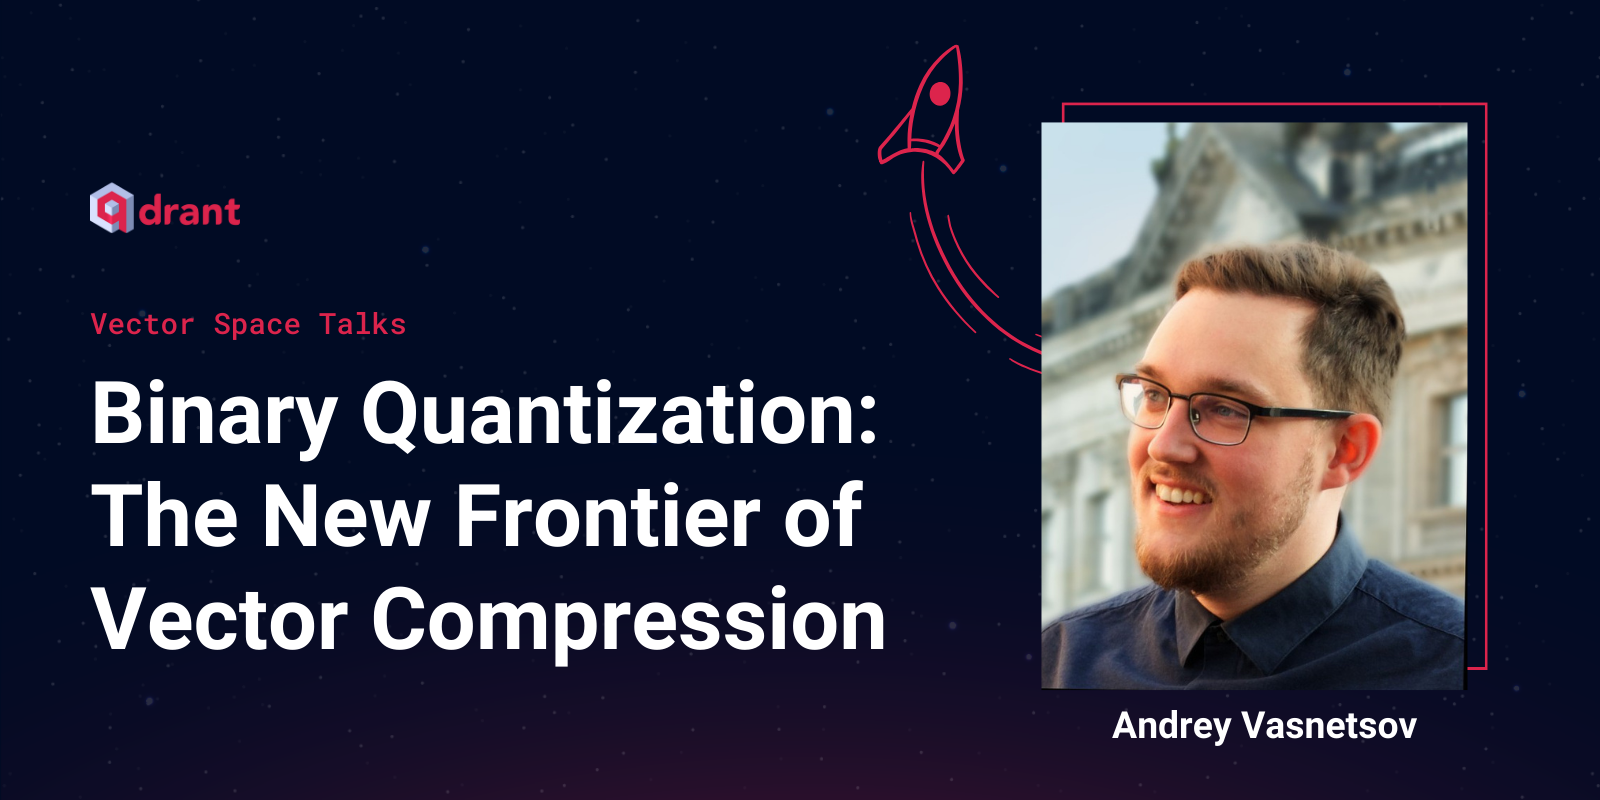
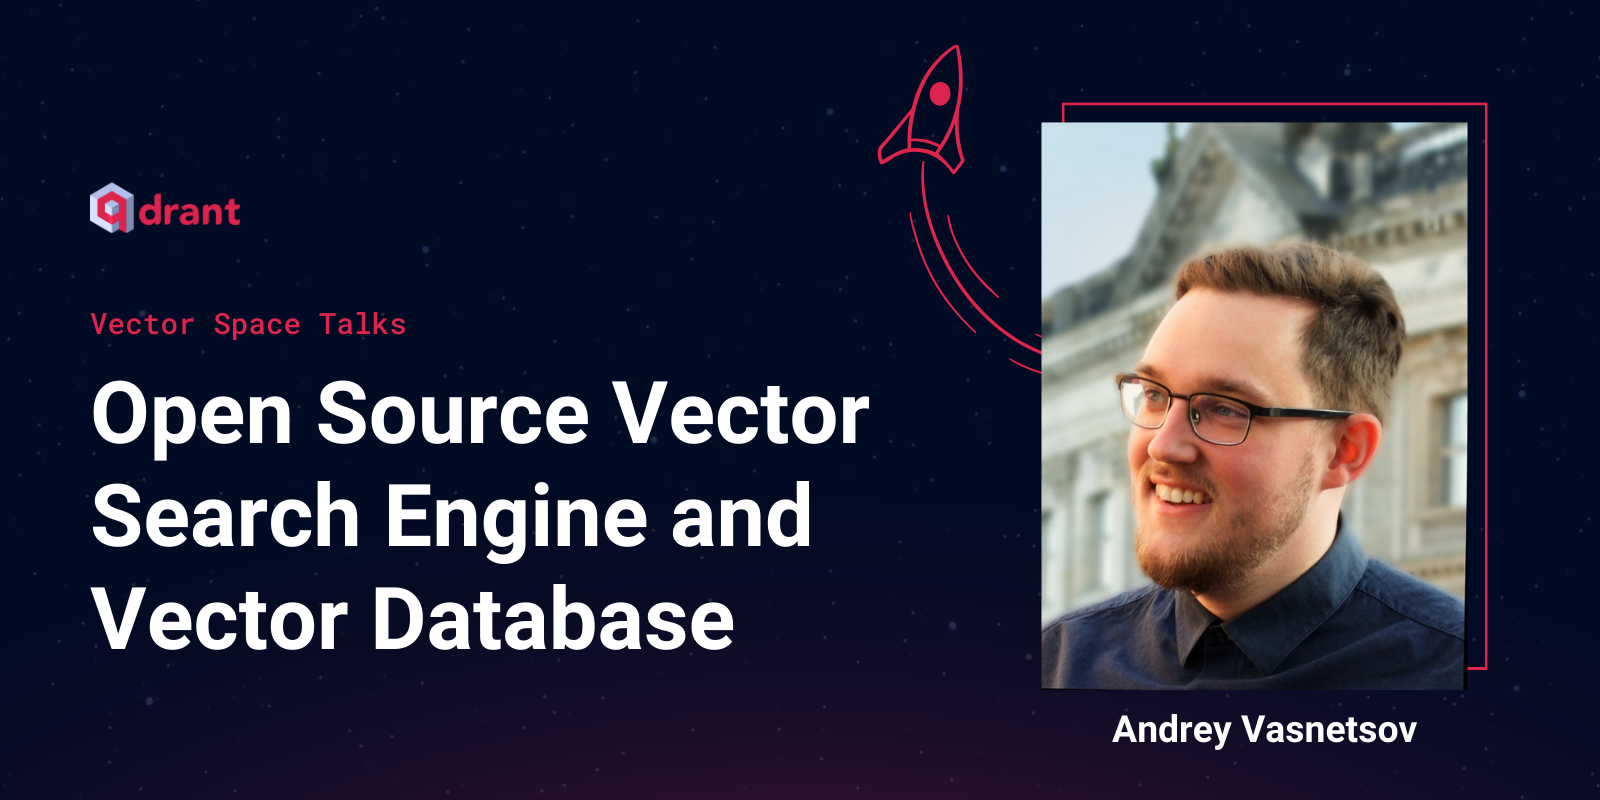
Create Blog “open-source-vector-search-engine-and-vector-database”

diff --git a/qdrant-landing/content/blog/open-source-vector-search-engine-and-vector-database.md b/qdrant-landing/content/blog/open-source-vector-search-engine-and-vector-database.md
@@ -1,0 +1,76 @@
+---
+draft: true
+title: Open Source Vector Search Engine and Vector Database
+slug: open-source-vector-search-engine-vector-database
+short_description: Andrey V talks about vector search engines and the technical
+  facets and challenges encountered in developing an open-source vector
+  database.
+description: Andrey Vasnetsov, CTO and co-founder of Quadrant, presents an
+  in-depth look into the intricacies of their open-source vector search engine
+  and database, detailing its optimized architecture, data structure challenges,
+  and innovative filtering techniques for efficient vector similarity searches.
+preview_image: /blog/from_cms/andrey-vasnetsov-cropped.png
+date: 2024-01-10T16:04:57.804Z
+author: Demetrios Brinkmann
+featured: false
+tags:
+  - Qdrant
+  - Vector Search Engine
+  - Vector Database
+---
+> *"For systems like quadrant, scalability and performance in my opinion, is much more important than transactional consistency, so it should be treated as a search engine rather than database."*\
+-- Andrey Vasnetsov
+> 
+
+Discussing core differences between search engines and databases, Andrey underlined the importance of application needs and scalability in database selection for vector search tasks.
+
+Andrey Vasnetsov, CTO at Qdrant is an enthusiast of Open Source, machine learning, and vector search. He works on Open Source projects related to Vector Similarity Search and Similarity Learning. He prefers practical over theoretical, working demo over arXiv paper.
+
+***You can watch this episode on [YouTube](https://www.youtube.com/watch?v=bU38Ovdh3NY).***
+
+<iframe width="560" height="315" src="https://www.youtube.com/embed/bU38Ovdh3NY?si=GiRluTu_c-4jESMj" title="YouTube video player" frameborder="0" allow="accelerometer; autoplay; clipboard-write; encrypted-media; gyroscope; picture-in-picture; web-share" allowfullscreen></iframe>
+
+## **Top Takeaways:**
+
+Dive into the intricacies of vector databases with Andrey as he unpacks Qdrant's approach to combining filtering and vector search, revealing how in-place filtering during graph traversal optimizes precision without sacrificing search exactness, even when scaling to billions of vectors.
+
+5 key insights you’ll learn:
+
+- 🧠 **The Strategy of Subgraphs:** Dive into how overlapping intervals and geo hash regions can enhance the precision and connectivity within vector search indices.
+
+- 🛠 **Engine vs Database:** Discover the differences between search engines and relational databases and why considering your application's needs is crucial for scalability.
+
+- 🌐 **Combining Searches with Relational Data:** Get insights on integrating relational and vector search for improved efficiency and performance.
+
+- 🚅 **Speed and Precision Tactics:** Uncover the techniques for controlling search precision and speed by tweaking the beam size in HNSW indices.
+
+- 🔗 **Connected Graph Challenges:** Learn about navigating the difficulties of maintaining a connected graph while filtering during search operations.
+
+> Fun Fact: The Qdrant system is capable of in-place filtering during graph traversal, which is a novel approach compared to traditional post-filtering methods, ensuring the correct quantity of results that meet the filtering conditions.
+> 
+
+## Show Notes:
+
+00:00 Search professional with expertise in vectors and engines.\
+09:59 Elasticsearch: scalable, weak consistency, prefer vector search.\
+12:53 Optimize data structures for faster processing efficiency.\
+21:41 Vector indexes require special treatment, like HNSW's proximity graph and greedy search.\
+23:16 HNSW index: approximate, precision control, CPU intensive.\
+30:06 Post-filtering inefficient, prefiltering costly.\
+34:01 Metadata-based filters; creating additional connecting links.\
+41:41 Vector dimension impacts comparison speed, indexing complexity high.\
+46:53 Overlapping intervals and subgraphs for precision.\
+53:18 Postgres limits scalability, additional indexing engines provide faster queries.\
+59:55 Embedding models for time series data explained.\
+01:02:01 Cheaper system for serving billion vectors.
+
+## More Quotes from Noé:
+
+*"It allows us to compress vector to a level where a single dimension is represented by just a single bit, which gives total of 32 times compression for the vector."*\
+-- Andrey Vasnetsov on vector compression in AI
+
+*"We build overlapping intervals and we build these subgraphs with additional links for those intervals. And also we can do the same with, let's say, location data where we have geocordinates, so latitude, longitude, we encode it into geo hashes and basically build this additional graph for overlapping geo hash regions."*\
+-- Andrey Vasnetsov
+
+*"We can further compress data using such techniques as delta encoding, as variable byte encoding, and so on. And this total effect, total combined effect of this optimization can make immutable data structures order of minute more efficient than mutable ones."*\
+-- Andrey Vasnetsov
